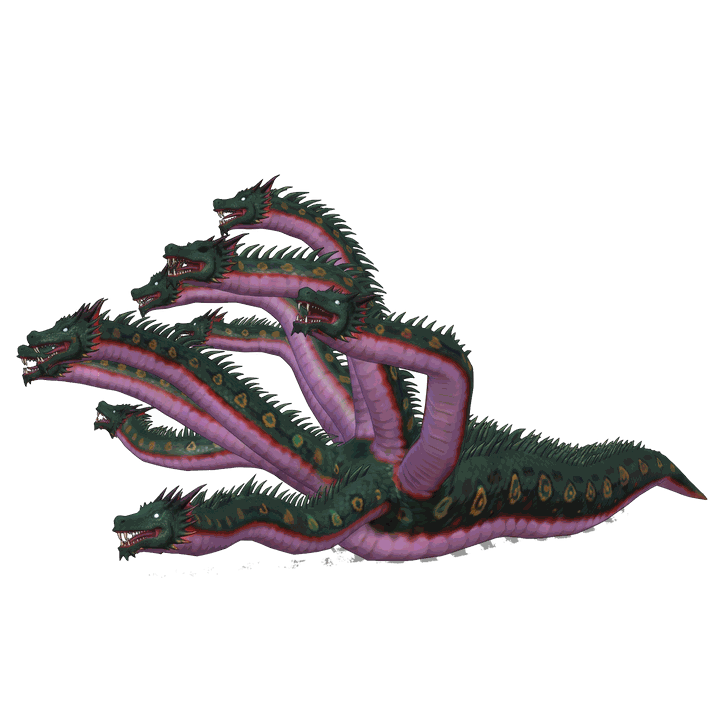
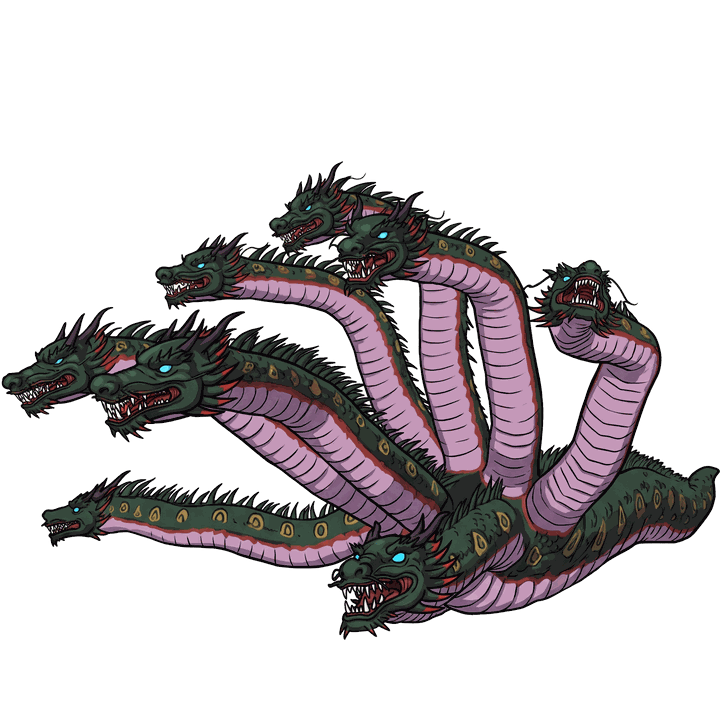
画像の切り替えをイラスト・デフォルメの2つに（アイコン・モデル・リアルを削除）。画像が無い時はもう一方を表示。イラストを追加（コアトル）、イルー・クズズ・ヒュードラーを差し替え
Claude-Session: https://claude.ai/code/session_011uzSQwSTGf5GDHYZxEqrtz

diff --git a/index.html b/index.html
@@ -3,8 +3,8 @@
   ドラゴン魔石表（GitHub Pages：index.html）
   ・ドラゴンを足す時は script 内の D の配列に1行足すだけ。ランキングや比較は自動で計算されます
   ・画像は images/ の中に No. と同じ2桁の番号で置きます
-      images/icons/01.png … 魔石アイコン　images/models/01.png … 3Dモデル　images/illust/01.png … イラスト
-      images/chibi/01.png … デフォルメイラスト　images/real/01.jpg … リアルイラスト（背景は白のまま）
+      images/illust/01.png … イラスト　images/chibi/01.png … デフォルメイラスト
+      （選んだ方の画像が無いドラゴンは、もう一方の画像を出します）
   ・デザインは「旅行のしおり集」（t-shimo-1121/shiori）に合わせています
 -->
 <html lang="ja">
@@ -96,7 +96,6 @@ h2 .n{font-family:var(--f-body);font-size:.82rem;color:var(--mute);font-weight:5
 /* イラスト枠 */
 .illust{position:relative;aspect-ratio:1;max-width:100%;border-radius:12px;overflow:hidden;background:var(--tint);display:grid;place-items:center}
 .illust img{width:100%;height:100%;object-fit:contain;display:block}
-.illust.icon img{object-fit:cover}
 .illust .ph{display:none;text-align:center;color:var(--mute);font-size:.72rem;line-height:1.35;padding:6px}
 .illust.empty{border:2px dashed var(--line)}
 .illust.empty .ph{display:block}
@@ -343,11 +342,8 @@ mark{background:hsl(45 95% 62% / .55);color:inherit;border-radius:3px;padding:0 
 <script>
 /* ===== 画像の種類: [ボタン名, フォルダ, 拡張子] ===== */
 const IMG_SETS={
-  icon:["アイコン","images/icons/",".png"],
-  model:["モデル","images/models/",".png"],
   illust:["イラスト","images/illust/",".png"],
   chibi:["デフォルメ","images/chibi/",".png"],
-  real:["リアル","images/real/",".jpg"],
 };
 const STATS=["体力","攻撃","防御","素早さ","命中","回避"];
 /* [種族, ニックネーム, [[ランク,値]×6], [[スキル,Lv(0=最大)]×3], [[アビリティ,Lv(0=最大)]×3]] */
@@ -567,19 +563,20 @@ const AB={
 };
 
 /* ===== 状態（並べ替えと画像の種類は端末に保存） ===== */
-const state={tab:"dragon",detail:null,img:"icon",
+const state={tab:"dragon",detail:null,img:"illust",
   dSort:{key:"no",dir:1},sSort:{key:"total",dir:-1},kSort:{key:"no",dir:1},aSort:{key:"no",dir:1},skDr:1,inDr:1,abCat:"all",dGrp:"all",inEl:"all",inFd:"all",skMana:"all",
   rk:{status:"total",skill:"pow",ability:"all",info:"all"}};
 const KEEP=["dSort","sSort","img","skDr","inDr","abCat","dGrp","inEl","inFd","rk","skMana"];
 try{const s=JSON.parse(localStorage.getItem("dragon-maseki-v2")||"{}");KEEP.forEach(k=>{if(s[k])state[k]=s[k]})}catch(e){}
-if(!IMG_SETS[state.img])state.img="icon";
+if(!IMG_SETS[state.img])state.img="illust";
 const save=()=>{try{localStorage.setItem("dragon-maseki-v2",JSON.stringify(Object.fromEntries(KEEP.map(k=>[k,state[k]]))))}catch(e){}};
 
 /* ===== イラスト枠（画像が無ければ仮置きの枠） ===== */
 function imgPath(d){const[,dir,ext]=IMG_SETS[state.img];return dir+String(d.no).padStart(2,"0")+ext}
 function illust(d){
   const src=imgPath(d);
-  return `<div class="illust ${state.img}"><img src="${src}" alt="" loading="lazy" onerror="this.parentNode.classList.add('empty');this.remove()"><span class="ph">${ico("img")}イラスト準備中<br>${esc(src)}</span></div>`;
+  const alt=Object.entries(IMG_SETS).filter(([k])=>k!==state.img).map(([,[,dir,ext]])=>dir+String(d.no).padStart(2,"0")+ext)[0];
+  return `<div class="illust ${state.img}"><img src="${src}" data-alt="${alt}" alt="" loading="lazy" onerror="if(this.dataset.alt){this.src=this.dataset.alt;this.dataset.alt=''}else{this.parentNode.classList.add('empty');this.remove()}"><span class="ph">${ico("img")}イラスト準備中<br>${esc(src)}</span></div>`;
 }
 
 /* ===== 六角形グラフ：外側にアイコン、内側の角に数値（800以上は赤、400未満は青） ===== */
